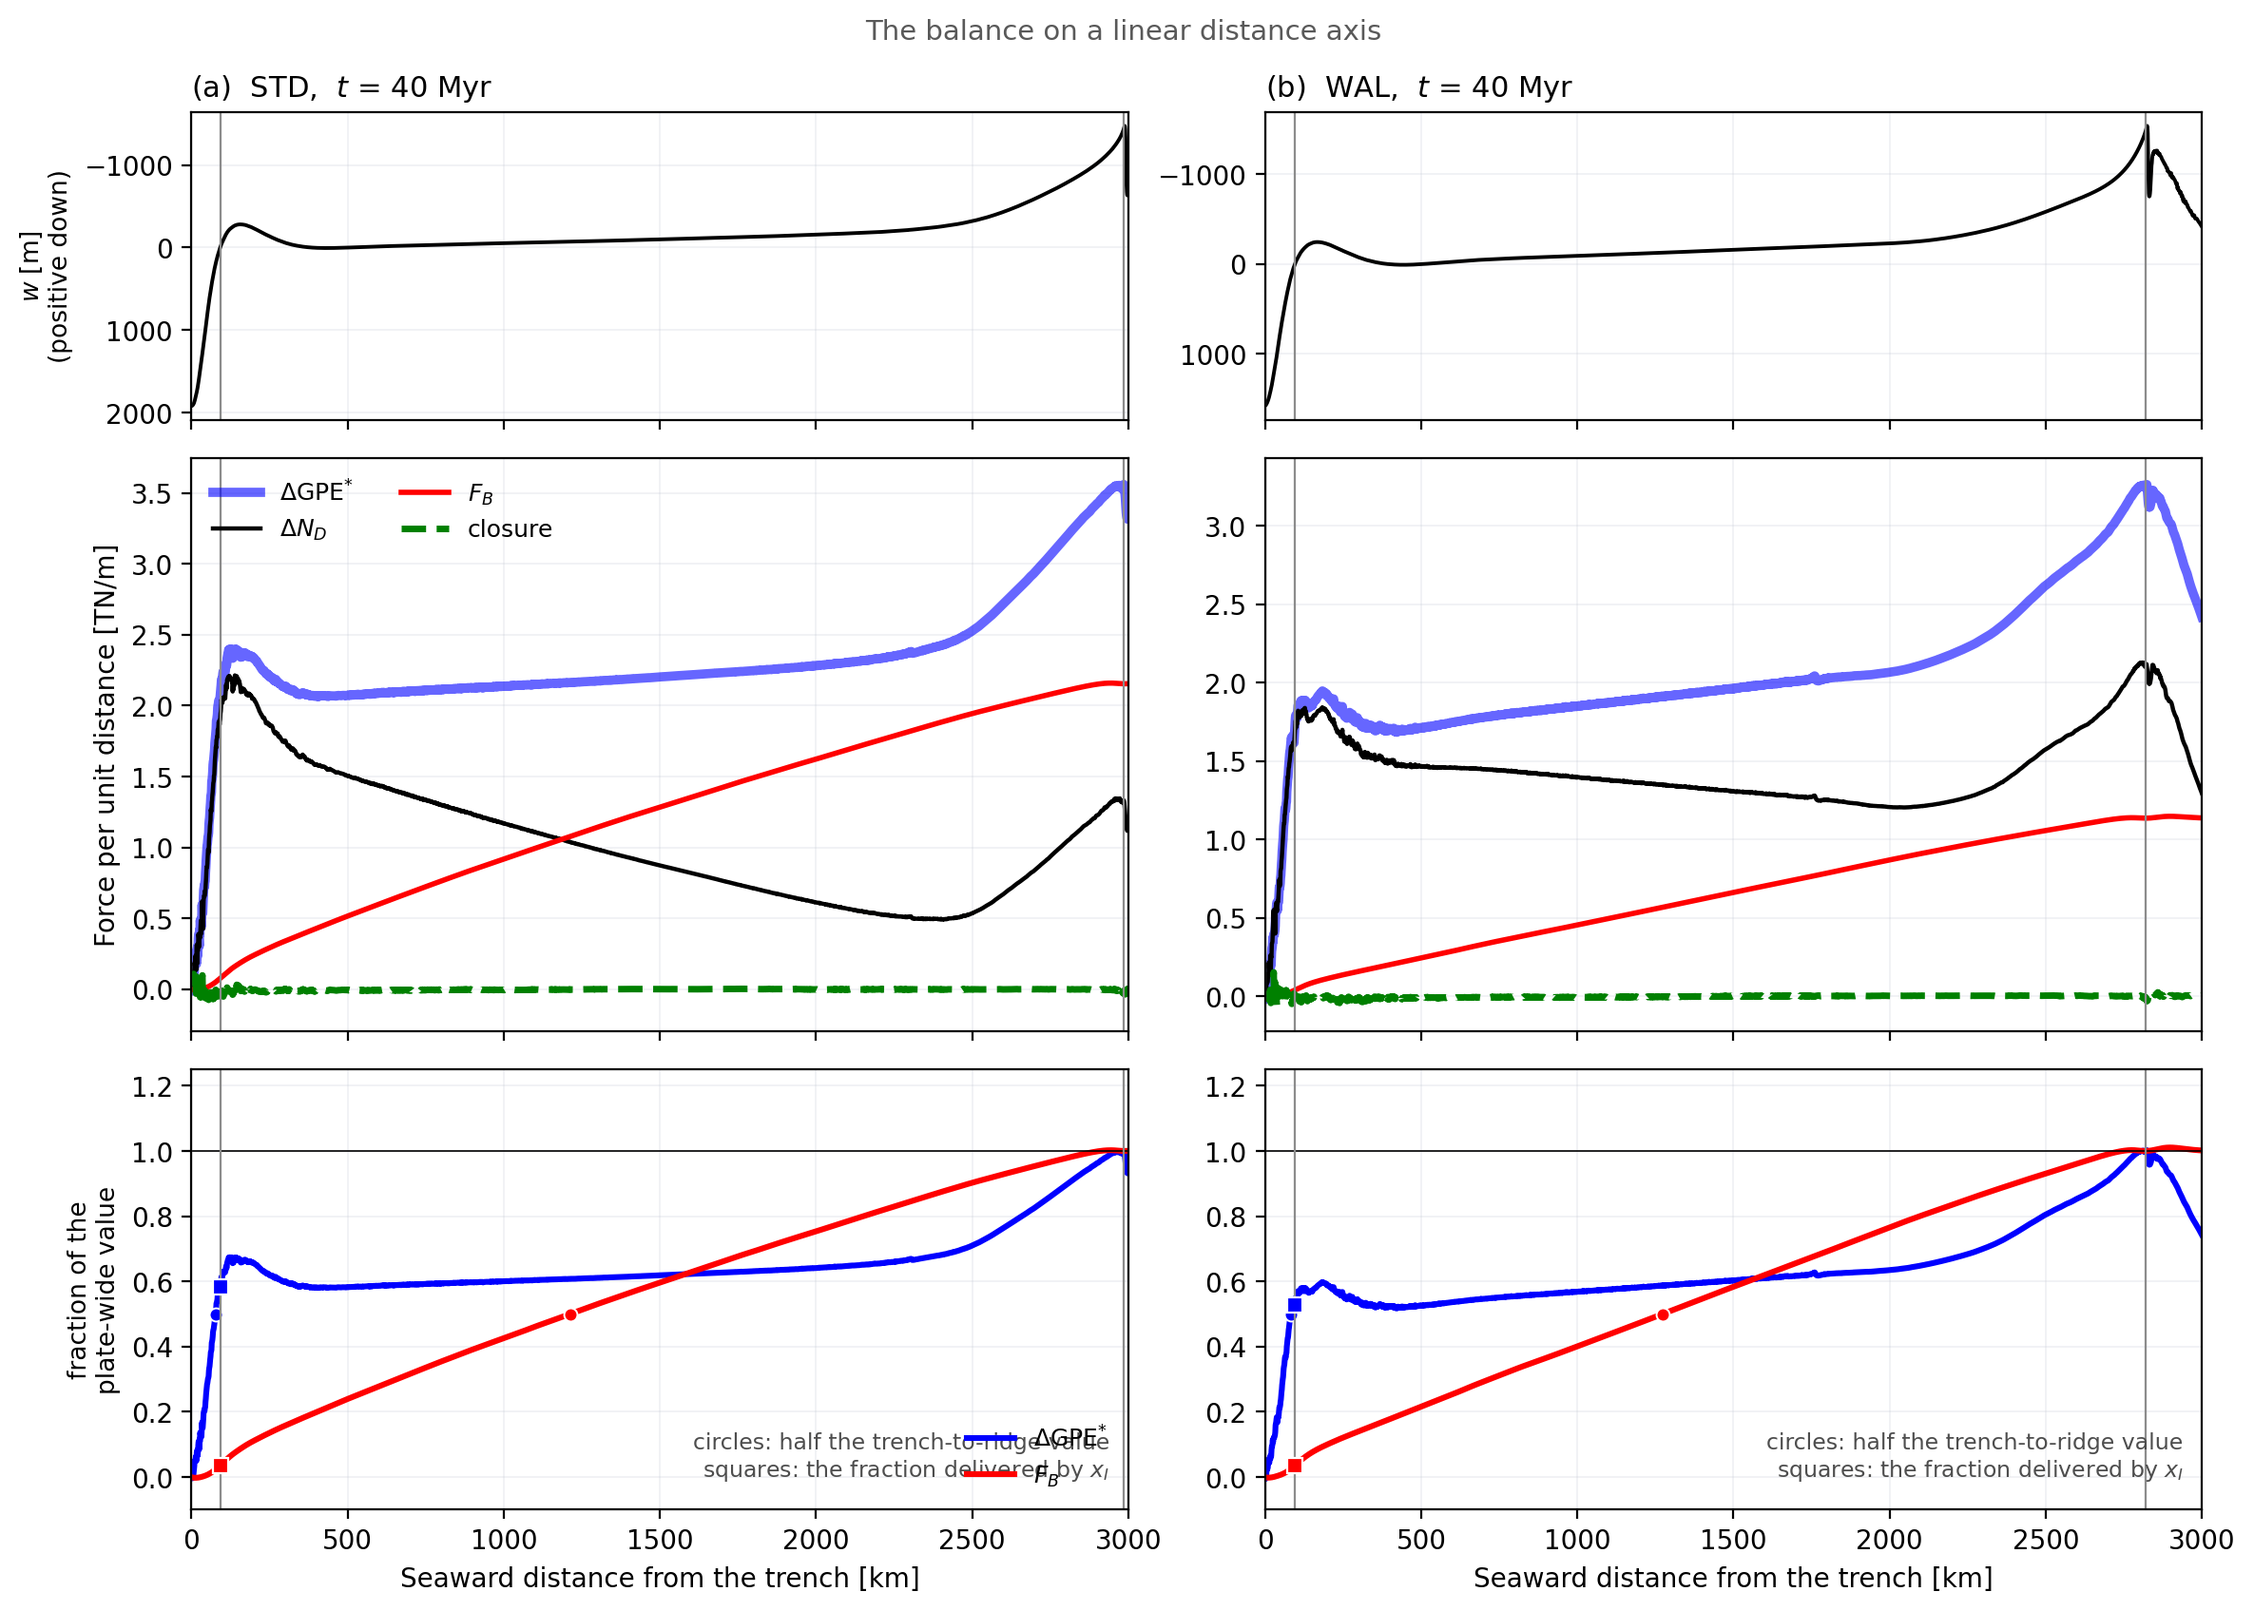
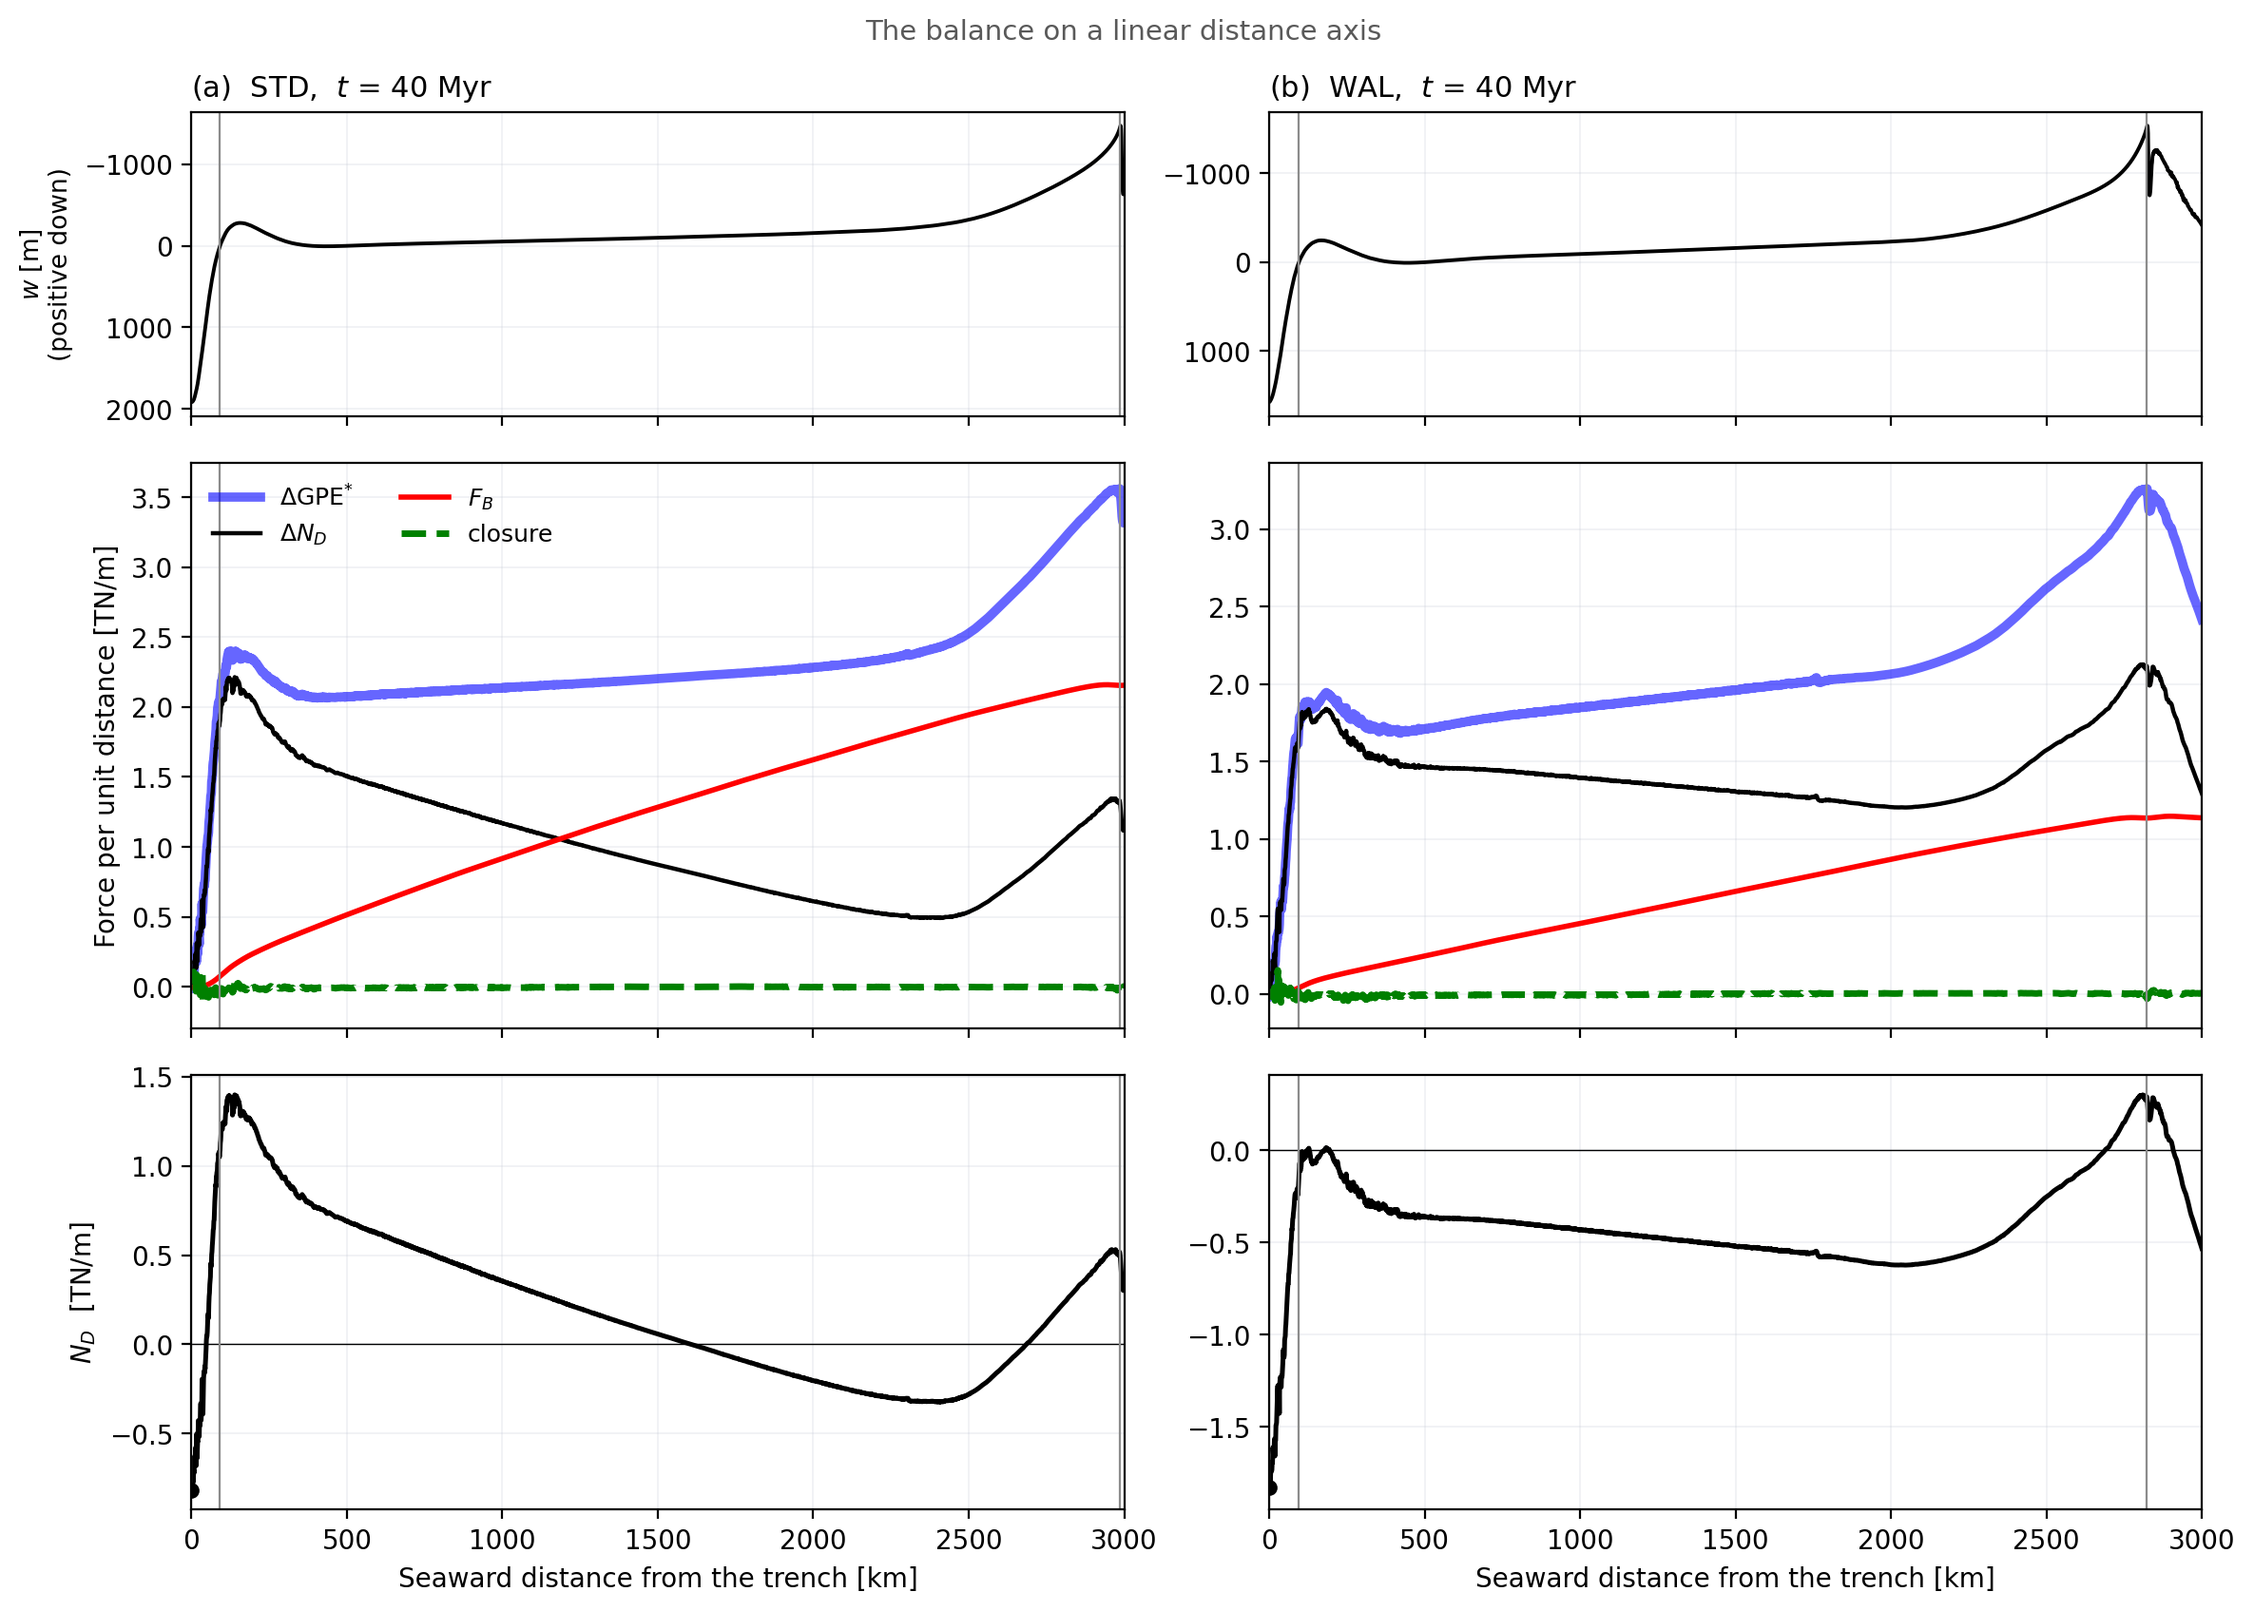
fig_balance_linear: back to the main figure's rows
This figure exists for one reason -- to let a reader confirm the
square-root axis in the main figure hid nothing. That only works if the
rows are the SAME rows. They were not.

Main-text rows are: free surface; the fundamental form; the decomposed
three-term form; N_D itself. This carried rows 1 and 3, dropped N_D, and
added a normalised 'fraction of the plate-wide value' panel with reach
and x_I markers that has no counterpart in the main figure. That panel
was a new analysis in an SI figure's clothes, and it defeated the
comparison the figure is for.

Now rows 1, 3 and 4. The fundamental form stays dropped -- it restates
the decomposed one and the SI does not need both (Dan, 2026-10-14).

The TABLE is unchanged. gpe_fraction_by_x_I and FB_fraction_by_x_I are
cited in balance.tex, so the numbers stay measured and tabulated; they
simply no longer have a panel. Nothing the manuscript reads has moved.

diff --git a/scripts/fig_balance_linear.py b/scripts/fig_balance_linear.py
@@ -17,13 +17,20 @@ order-of-magnitude difference between the two domains, and a reader who
 sees only the square-root version may carry away the wrong sense of where
 each term accumulates.
 
-WHAT THE LINEAR VERSION SHOWS, measured and tabulated rather than asserted:
-the distance from the trench over which each term reaches half and then
-90 per cent of its plate-wide value. The trench pull is complete within
-O(100) km; the basal traction accumulates over the O(1000) km ridge side.
-The endpoint values are of course identical -- the plotting transformation
-changes nothing about the balance, which is the third thing this figure is
-here to demonstrate.
+THE ROWS ARE THE MAIN FIGURE'S ROWS, less one. Main-text rows are: the
+free surface; the fundamental form; the decomposed three-term form; and
+N_D itself. This figure carries the first, third and fourth. The
+fundamental form is dropped because it restates the decomposed one
+(Dan, 2026-10-14) and the SI does not need both.
+
+⚠ IT SHOWS NOTHING THE MAIN FIGURE DOES NOT. That is the whole point: the
+axis is the only difference, so a reader can confirm the square-root
+transformation hid nothing. A panel here that has no counterpart in the
+main figure defeats the comparison. One was added and removed -- a
+normalised "fraction of the plate-wide value" row with reach markers,
+which was a new analysis wearing an SI figure's clothes. Its NUMBERS are
+kept (the manuscript cites gpe_fraction_by_x_I and FB_fraction_by_x_I),
+they simply do not need a panel.
 """
 import os, sys
 import numpy as np
@@ -84,34 +91,23 @@ def main():
                     ls='--' if lab == 'closure' else '-',
                     alpha=0.6 if c == 'b' else 1.0, label=lab)
 
-        # where each term accumulates -- the point of the figure
+        # ROW 3 = THE MAIN FIGURE'S ROW 4: N_D itself, not a Delta form.
+        # The reach/fraction numbers below are still measured and tabulated
+        # -- the manuscript cites them -- but they are no longer plotted.
         a2 = axes[2, col]
-        for y, c, lab in ((g(r['d_gpe']), 'b', r'$\Delta\mathrm{GPE}^{*}$'),
-                          (g(r['FB']), 'red', '$F_B$')):
-            end = float(np.interp(sR, s, y))     # the plate-wide value
-            yv = y[vis] / end
-            a2.plot(s[vis], yv, color=c, lw=2.2, label=lab)
-            nm = 'gpe' if c == 'b' else 'FB'
-            d50 = reach(s[vis], y[vis], 0.5, end)
-            a2.plot(d50, 0.5, 'o', color=c, ms=5, mec='white', mew=0.7)
-            rows.append((key, f'{nm}_reach50_km', f'{d50:.0f}'))
-            rows.append((key, f'{nm}_plate_wide_TNm', f'{end*1e-12:.3f}'))
-            # THE FRACTION DELIVERED BY x_I, not the 90 % point. For F_B the
-            # two say the same thing, but for Delta GPE* the 90 % marker
-            # lands near the ridge and misleads: the curve reaches ~0.7 within
-            # 200 km and then creeps, because the total is trench pull PLUS
-            # ridge push and only the first is a near-field quantity. The
-            # split at x_I is the one the paper actually uses.
-            fI = float(np.interp(sI, s[vis], yv))
-            a2.plot(sI, fI, 's', color=c, ms=6, mec='white', mew=0.8, zorder=5)
-            rows.append((key, f'{nm}_fraction_by_x_I', f'{fI:.3f}'))
-        a2.axhline(1, color='k', lw=0.6)
-        a2.text(0.98, 0.06, 'circles: half the trench-to-ridge value\n'
-                            'squares: the fraction delivered by $x_I$',
-                transform=a2.transAxes, ha='right', va='bottom',
-                fontsize=8.5, color='0.3')
-        a2.set_ylim(-0.1, 1.25)
+        a2.plot(s[vis], g(r['Fd'])[vis] * 1e-12, color='k', lw=1.8,
+                label='$N_D(x)$')
+        a2.axhline(0, color='k', lw=0.5)
+        a2.plot(0, r['Fd_T'] * 1e-12, 'o', color='k', ms=5, zorder=6)
         a2.set_xlabel('Seaward distance from the trench [km]', fontsize=10)
+        for y, c in ((g(r['d_gpe']), 'b'), (g(r['FB']), 'red')):
+            end = float(np.interp(sR, s, y))
+            nm = 'gpe' if c == 'b' else 'FB'
+            rows.append((key, f'{nm}_reach50_km',
+                         f'{reach(s[vis], y[vis], 0.5, end):.0f}'))
+            rows.append((key, f'{nm}_plate_wide_TNm', f'{end*1e-12:.3f}'))
+            rows.append((key, f'{nm}_fraction_by_x_I',
+                         f'{float(np.interp(sI, s[vis], y[vis] / end)):.3f}'))
 
         for ax in axes[:, col]:
             ax.set_xlim(0, XMAX_KM)
@@ -134,9 +130,8 @@ def main():
 
     axes[0, 0].set_ylabel('$w$ [m]\n(positive down)', fontsize=9.5)
     axes[1, 0].set_ylabel('Force per unit distance [TN/m]', fontsize=10)
-    axes[2, 0].set_ylabel('fraction of the\nplate-wide value', fontsize=9.5)
+    axes[2, 0].set_ylabel('$N_D$  [TN/m]', fontsize=10)
     axes[1, 0].legend(frameon=False, fontsize=9, ncol=2, loc='upper left')
-    axes[2, 0].legend(frameon=False, fontsize=9, loc='lower right')
     fig.suptitle('The balance on a linear distance axis',
                  fontsize=10.5, color='0.35')
     fig.tight_layout()
@@ -151,6 +146,12 @@ def main():
               'computation': 'balance_chain.compute, identical to the main figure',
               'plate_wide': 'every fraction is referenced to the value at the '
                             'RIDGE column, not to the 3000 km display limit',
+              'rows': 'main-text rows 1, 3 and 4 (free surface; decomposed '
+                      'balance; N_D). The fundamental form is dropped as a '
+                      'restatement of the decomposed one (Dan, 2026-10-14)',
+              'not_plotted': 'the reach and x_I-fraction numbers are measured '
+                             'and tabulated but have no panel -- they are '
+                             'cited by the manuscript, not displayed here',
               'zc_km': bc.ZC / 1e3}))
 
 
